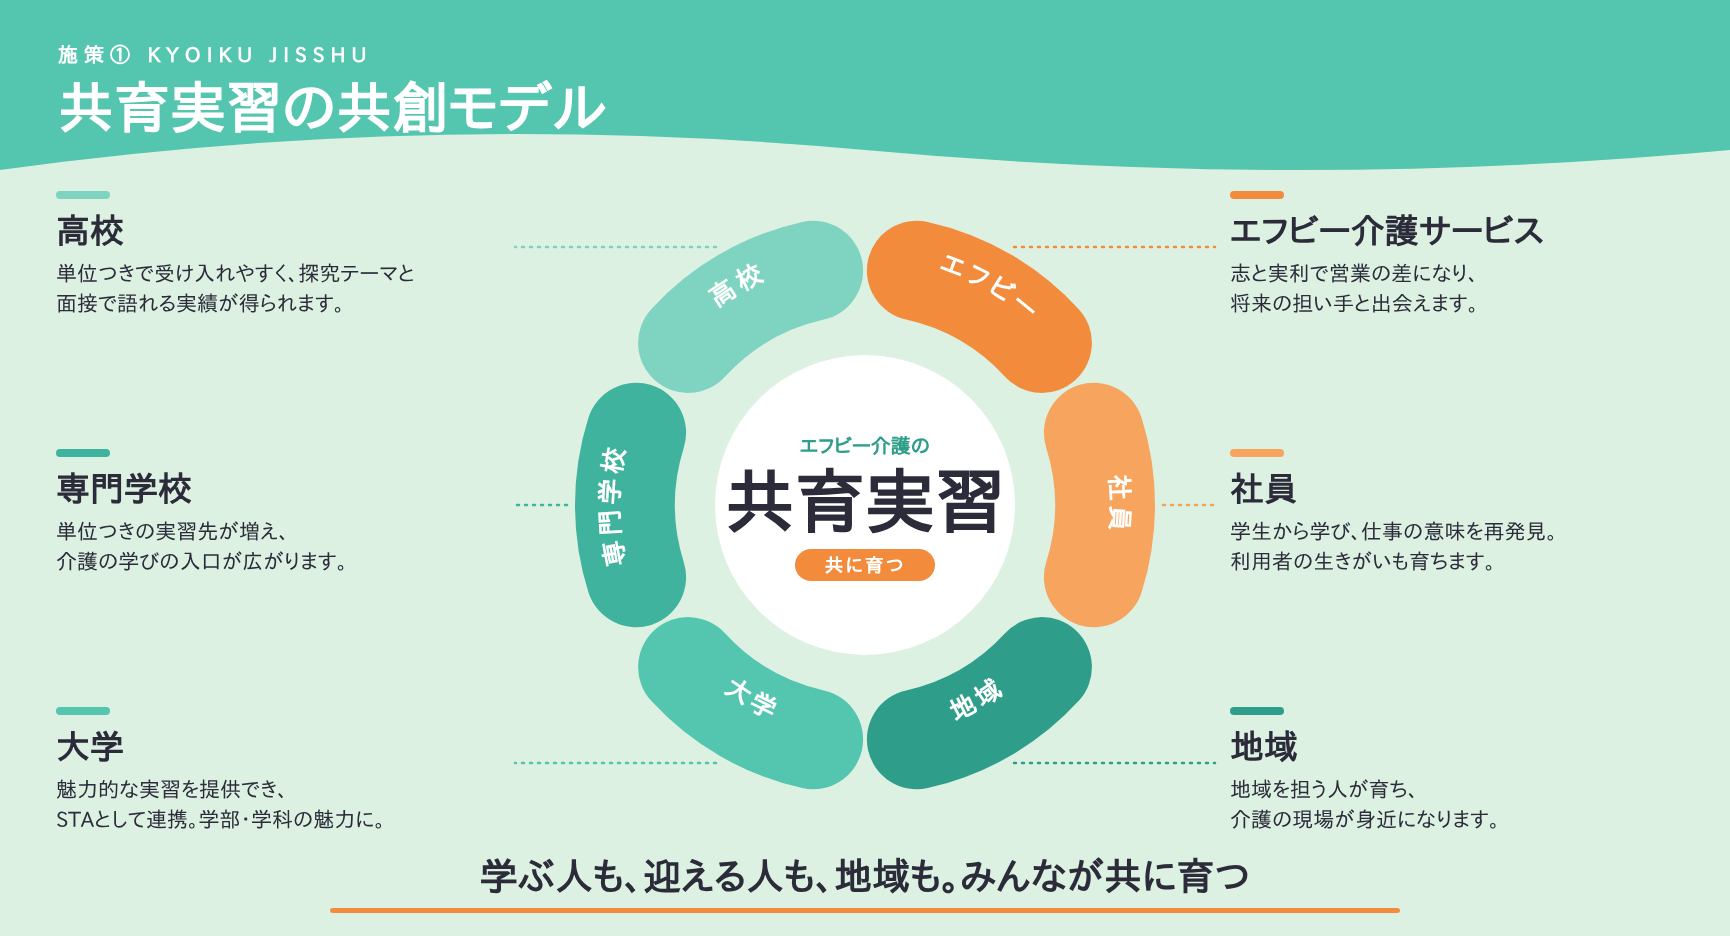
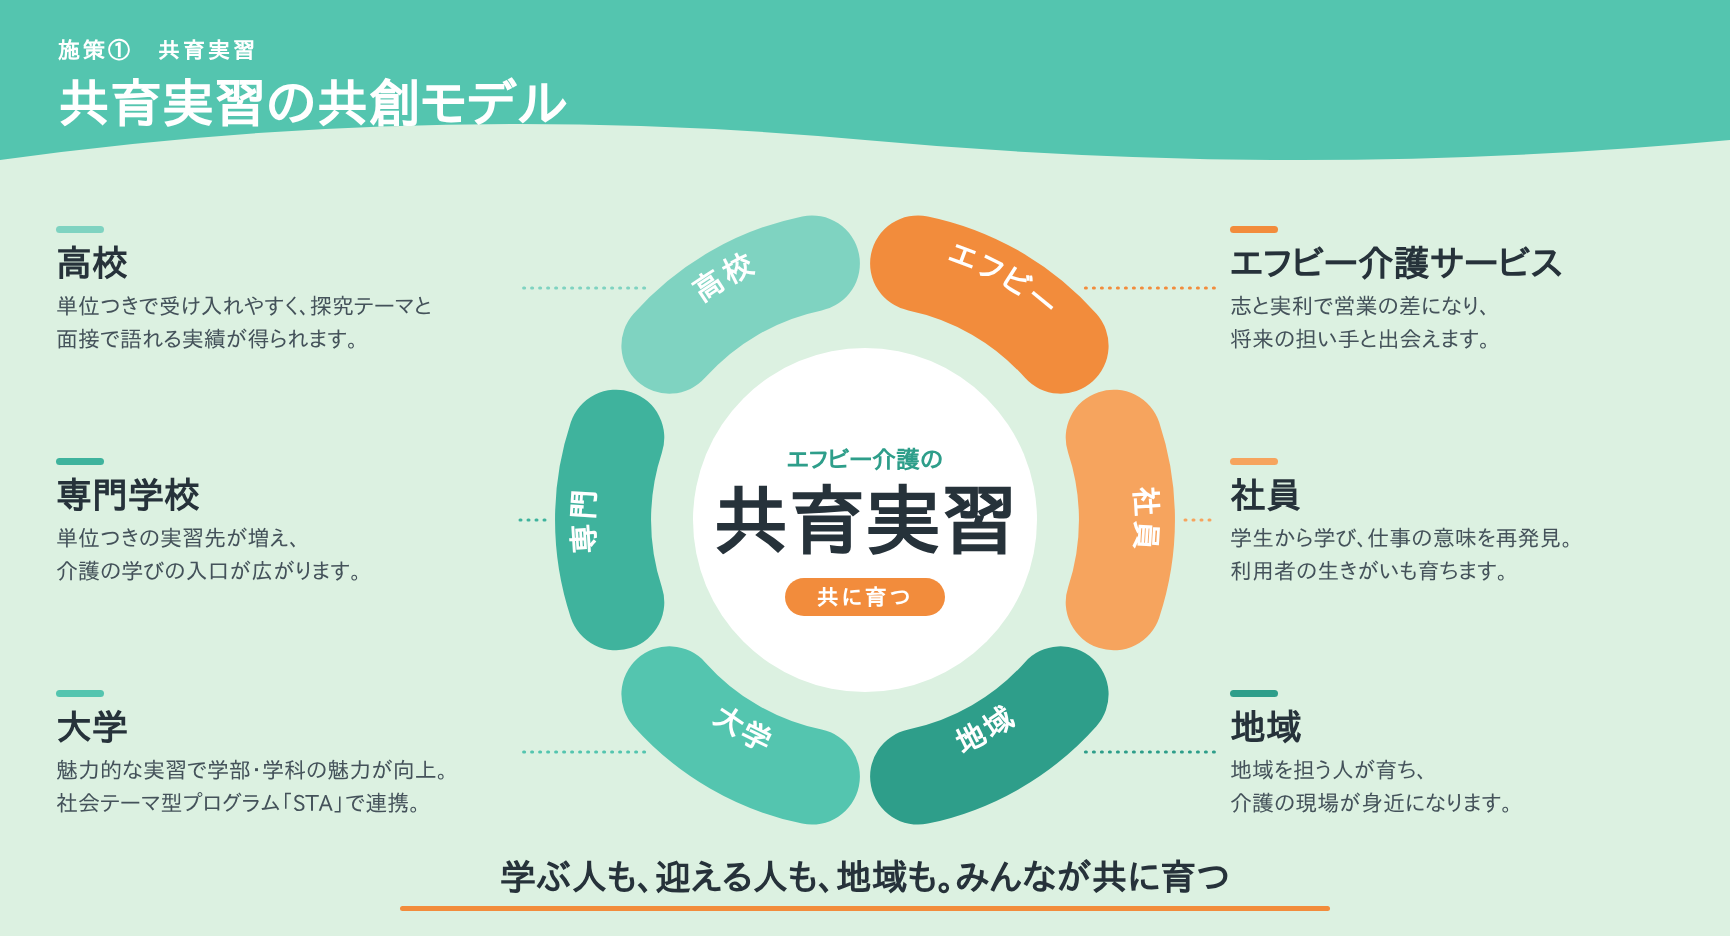
Refine co-creation model: Japanese-only labels, rebalanced sizes
Claude-Session: https://claude.ai/code/session_01MxdMxhi7qZAPC9aBAhtpWC

diff --git a/kyoiku-jisshu/co-creation-model.html b/kyoiku-jisshu/co-creation-model.html
@@ -1,61 +1,61 @@
-<!doctype html><meta charset="utf-8"><title>共育実習 共創モデル</title><body style="margin:0;overflow:hidden"><svg xmlns="http://www.w3.org/2000/svg" width="1730" height="936" viewBox="0 0 1730 936" font-family="Hiragino Sans,Noto Sans JP,IPAPGothic,sans-serif">
+<!doctype html><meta charset="utf-8"><title>共育実習 共創モデル</title><body style="margin:0;overflow:hidden"><svg xmlns="http://www.w3.org/2000/svg" width="1730" height="936" viewBox="0 0 1730 936" font-family="Hiragino Sans,Noto Sans JP,Noto Sans CJK JP,IPAPGothic,sans-serif">
 <rect width="1730" height="936" fill="#dcf1e1"/>
-<path d="M0,0H1730V150Q1300,190 865,150T0,170Z" fill="#54c5af"/>
-<text x="58" y="62" font-size="20" font-weight="800" letter-spacing="6" fill="#fff">施策① KYOIKU JISSHU</text>
-<text x="58" y="128" font-size="56" font-weight="800" fill="#fff">共育実習の共創モデル</text>
-<circle cx="865" cy="505" r="150" fill="#fff"/>
-<text x="865" y="453" text-anchor="middle" font-size="20" font-weight="700" fill="#2e9e8a">エフビー介護の</text>
-<text x="865" y="527" text-anchor="middle" font-size="70" font-weight="800" fill="#2b2b3a">共育実習</text>
-<rect x="795" y="549" width="140" height="32" rx="16" fill="#f28c3c"/>
-<text x="865" y="572" text-anchor="middle" font-size="19" font-weight="800" letter-spacing="2" fill="#fff">共に育つ</text>
-<path d="M916.9,270.7 A240,240 0 0 1 1041.9,342.9" stroke="#f28c3c" stroke-width="100" stroke-linecap="round" fill="none"/>
-<path id="t0" d="M918.2,264.8 A246,246 0 0 1 1046.4,338.8" fill="none"/>
-<text font-size="26" font-weight="800" letter-spacing="4" fill="#fff"><textPath href="#t0" startOffset="50%" text-anchor="middle">エフビー</textPath></text>
-<path d="M1014.0,246.9 L1215,246.9" stroke="#f28c3c" stroke-width="2.5" stroke-dasharray="2 6" stroke-linecap="round"/>
-<text x="1230" y="243" font-size="34" font-weight="800" fill="#2b2b3a">エフビー介護サービス</text>
-<text x="1230" y="281" font-size="21" fill="#2b2b3a">志と実利で営業の差になり、</text>
-<text x="1230" y="311" font-size="21" fill="#2b2b3a">将来の担い手と出会えます。</text>
-<rect x="1230" y="191" width="54" height="8" rx="4" fill="#f28c3c"/>
-<path d="M1093.9,432.8 A240,240 0 0 1 1093.9,577.2" stroke="#f6a45e" stroke-width="100" stroke-linecap="round" fill="none"/>
-<path id="t1" d="M1099.6,431.0 A246,246 0 0 1 1099.6,579.0" fill="none"/>
-<text font-size="26" font-weight="800" letter-spacing="4" fill="#fff"><textPath href="#t1" startOffset="50%" text-anchor="middle">社員</textPath></text>
-<path d="M1163.0,505.0 L1215,505.0" stroke="#f6a45e" stroke-width="2.5" stroke-dasharray="2 6" stroke-linecap="round"/>
-<text x="1230" y="501" font-size="34" font-weight="800" fill="#2b2b3a">社員</text>
-<text x="1230" y="539" font-size="21" fill="#2b2b3a">学生から学び、仕事の意味を再発見。</text>
-<text x="1230" y="569" font-size="21" fill="#2b2b3a">利用者の生きがいも育ちます。</text>
-<rect x="1230" y="449" width="54" height="8" rx="4" fill="#f6a45e"/>
-<path d="M1041.9,667.1 A240,240 0 0 1 916.9,739.3" stroke="#2e9e8a" stroke-width="100" stroke-linecap="round" fill="none"/>
-<path id="t2" d="M915.6,733.5 A234,234 0 0 0 1037.5,663.1" fill="none"/>
-<text font-size="26" font-weight="800" letter-spacing="4" fill="#fff"><textPath href="#t2" startOffset="50%" text-anchor="middle">地域</textPath></text>
-<path d="M1014.0,763.1 L1215,763.1" stroke="#2e9e8a" stroke-width="2.5" stroke-dasharray="2 6" stroke-linecap="round"/>
-<text x="1230" y="759" font-size="34" font-weight="800" fill="#2b2b3a">地域</text>
-<text x="1230" y="797" font-size="21" fill="#2b2b3a">地域を担う人が育ち、</text>
-<text x="1230" y="827" font-size="21" fill="#2b2b3a">介護の現場が身近になります。</text>
-<rect x="1230" y="707" width="54" height="8" rx="4" fill="#2e9e8a"/>
-<path d="M813.1,739.3 A240,240 0 0 1 688.1,667.1" stroke="#54c5af" stroke-width="100" stroke-linecap="round" fill="none"/>
-<path id="t3" d="M692.5,663.1 A234,234 0 0 0 814.4,733.5" fill="none"/>
-<text font-size="26" font-weight="800" letter-spacing="4" fill="#fff"><textPath href="#t3" startOffset="50%" text-anchor="middle">大学</textPath></text>
-<path d="M716.0,763.1 L515,763.1" stroke="#54c5af" stroke-width="2.5" stroke-dasharray="2 6" stroke-linecap="round"/>
-<text x="56" y="759" font-size="34" font-weight="800" fill="#2b2b3a">大学</text>
-<text x="56" y="797" font-size="21" fill="#2b2b3a">魅力的な実習を提供でき、</text>
-<text x="56" y="827" font-size="21" fill="#2b2b3a">STAとして連携。学部・学科の魅力に。</text>
-<rect x="56" y="707" width="54" height="8" rx="4" fill="#54c5af"/>
-<path d="M636.1,577.2 A240,240 0 0 1 636.1,432.8" stroke="#3fb39d" stroke-width="100" stroke-linecap="round" fill="none"/>
-<path id="t4" d="M630.4,579.0 A246,246 0 0 1 630.4,431.0" fill="none"/>
-<text font-size="26" font-weight="800" letter-spacing="4" fill="#fff"><textPath href="#t4" startOffset="50%" text-anchor="middle">専門学校</textPath></text>
-<path d="M567.0,505.0 L515,505.0" stroke="#3fb39d" stroke-width="2.5" stroke-dasharray="2 6" stroke-linecap="round"/>
-<text x="56" y="501" font-size="34" font-weight="800" fill="#2b2b3a">専門学校</text>
-<text x="56" y="539" font-size="21" fill="#2b2b3a">単位つきの実習先が増え、</text>
-<text x="56" y="569" font-size="21" fill="#2b2b3a">介護の学びの入口が広がります。</text>
-<rect x="56" y="449" width="54" height="8" rx="4" fill="#3fb39d"/>
-<path d="M688.1,342.9 A240,240 0 0 1 813.1,270.7" stroke="#7fd3c1" stroke-width="100" stroke-linecap="round" fill="none"/>
-<path id="t5" d="M683.6,338.8 A246,246 0 0 1 811.8,264.8" fill="none"/>
-<text font-size="26" font-weight="800" letter-spacing="4" fill="#fff"><textPath href="#t5" startOffset="50%" text-anchor="middle">高校</textPath></text>
-<path d="M716.0,246.9 L515,246.9" stroke="#7fd3c1" stroke-width="2.5" stroke-dasharray="2 6" stroke-linecap="round"/>
-<text x="56" y="243" font-size="34" font-weight="800" fill="#2b2b3a">高校</text>
-<text x="56" y="281" font-size="21" fill="#2b2b3a">単位つきで受け入れやすく、探究テーマと</text>
-<text x="56" y="311" font-size="21" fill="#2b2b3a">面接で語れる実績が得られます。</text>
-<rect x="56" y="191" width="54" height="8" rx="4" fill="#7fd3c1"/>
-<text x="865" y="890" text-anchor="middle" font-size="38" font-weight="800" fill="#2b2b3a">学ぶ人も、迎える人も、地域も。みんなが共に育つ</text>
-<rect x="330" y="908" width="1070" height="5" rx="3" fill="#f28c3c"/>
+<path d="M0,0H1730V140Q1300,180 865,140T0,160Z" fill="#54c5af"/>
+<text x="58" y="58" font-size="22" font-weight="700" letter-spacing="3" fill="#fff">施策①　共育実習</text>
+<text x="58" y="122" font-size="52" font-weight="800" fill="#fff">共育実習の共創モデル</text>
+<circle cx="865" cy="520" r="172" fill="#fff"/>
+<text x="865" y="468" text-anchor="middle" font-size="24" font-weight="700" fill="#2e9e8a">エフビー介護の</text>
+<text x="865" y="548" text-anchor="middle" font-size="76" font-weight="800" fill="#26323a">共育実習</text>
+<rect x="785" y="578" width="160" height="38" rx="19" fill="#f28c3c"/>
+<text x="865" y="605" text-anchor="middle" font-size="22" font-weight="800" letter-spacing="3" fill="#fff">共に育つ</text>
+<path d="M918.1,263.4 A262,262 0 0 1 1060.6,345.7" stroke="#f28c3c" stroke-width="96" stroke-linecap="round" fill="none"/>
+<path id="t0" d="M919.9,254.6 A271,271 0 0 1 1067.3,339.7" fill="none"/>
+<text font-size="30" font-weight="700" letter-spacing="3" fill="#fff"><textPath href="#t0" startOffset="50%" text-anchor="middle">エフビー</textPath></text>
+<line x1="1085.4" y1="288" x2="1216" y2="288" stroke="#f28c3c" stroke-width="3" stroke-dasharray="1 7" stroke-linecap="round"/>
+<rect x="1230" y="226" width="48" height="7" rx="3.5" fill="#f28c3c"/>
+<text x="1230" y="276" font-size="36" font-weight="800" fill="#26323a">エフビー介護サービス</text>
+<text x="1230" y="314" font-size="22" fill="#44525a">志と実利で営業の差になり、</text>
+<text x="1230" y="347" font-size="22" fill="#44525a">将来の担い手と出会えます。</text>
+<path d="M1113.7,437.7 A262,262 0 0 1 1113.7,602.3" stroke="#f6a45e" stroke-width="96" stroke-linecap="round" fill="none"/>
+<path id="t1" d="M1122.3,434.9 A271,271 0 0 1 1122.3,605.1" fill="none"/>
+<text font-size="30" font-weight="700" letter-spacing="3" fill="#fff"><textPath href="#t1" startOffset="50%" text-anchor="middle">社員</textPath></text>
+<line x1="1185.0" y1="520" x2="1216" y2="520" stroke="#f6a45e" stroke-width="3" stroke-dasharray="1 7" stroke-linecap="round"/>
+<rect x="1230" y="458" width="48" height="7" rx="3.5" fill="#f6a45e"/>
+<text x="1230" y="508" font-size="36" font-weight="800" fill="#26323a">社員</text>
+<text x="1230" y="546" font-size="22" fill="#44525a">学生から学び、仕事の意味を再発見。</text>
+<text x="1230" y="579" font-size="22" fill="#44525a">利用者の生きがいも育ちます。</text>
+<path d="M1060.6,694.3 A262,262 0 0 1 918.1,776.6" stroke="#2e9e8a" stroke-width="96" stroke-linecap="round" fill="none"/>
+<path id="t2" d="M916.3,767.7 A253,253 0 0 0 1053.9,688.3" fill="none"/>
+<text font-size="30" font-weight="700" letter-spacing="3" fill="#fff"><textPath href="#t2" startOffset="50%" text-anchor="middle">地域</textPath></text>
+<line x1="1085.4" y1="752" x2="1216" y2="752" stroke="#2e9e8a" stroke-width="3" stroke-dasharray="1 7" stroke-linecap="round"/>
+<rect x="1230" y="690" width="48" height="7" rx="3.5" fill="#2e9e8a"/>
+<text x="1230" y="740" font-size="36" font-weight="800" fill="#26323a">地域</text>
+<text x="1230" y="778" font-size="22" fill="#44525a">地域を担う人が育ち、</text>
+<text x="1230" y="811" font-size="22" fill="#44525a">介護の現場が身近になります。</text>
+<path d="M811.9,776.6 A262,262 0 0 1 669.4,694.3" stroke="#54c5af" stroke-width="96" stroke-linecap="round" fill="none"/>
+<path id="t3" d="M676.1,688.3 A253,253 0 0 0 813.7,767.7" fill="none"/>
+<text font-size="30" font-weight="700" letter-spacing="3" fill="#fff"><textPath href="#t3" startOffset="50%" text-anchor="middle">大学</textPath></text>
+<line x1="644.6" y1="752" x2="520" y2="752" stroke="#54c5af" stroke-width="3" stroke-dasharray="1 7" stroke-linecap="round"/>
+<rect x="56" y="690" width="48" height="7" rx="3.5" fill="#54c5af"/>
+<text x="56" y="740" font-size="36" font-weight="800" fill="#26323a">大学</text>
+<text x="56" y="778" font-size="22" fill="#44525a">魅力的な実習で学部・学科の魅力が向上。</text>
+<text x="56" y="811" font-size="22" fill="#44525a">社会テーマ型プログラム「STA」で連携。</text>
+<path d="M616.3,602.3 A262,262 0 0 1 616.3,437.7" stroke="#3fb39d" stroke-width="96" stroke-linecap="round" fill="none"/>
+<path id="t4" d="M607.7,605.1 A271,271 0 0 1 607.7,434.9" fill="none"/>
+<text font-size="30" font-weight="700" letter-spacing="3" fill="#fff"><textPath href="#t4" startOffset="50%" text-anchor="middle">専門</textPath></text>
+<line x1="545.0" y1="520" x2="520" y2="520" stroke="#3fb39d" stroke-width="3" stroke-dasharray="1 7" stroke-linecap="round"/>
+<rect x="56" y="458" width="48" height="7" rx="3.5" fill="#3fb39d"/>
+<text x="56" y="508" font-size="36" font-weight="800" fill="#26323a">専門学校</text>
+<text x="56" y="546" font-size="22" fill="#44525a">単位つきの実習先が増え、</text>
+<text x="56" y="579" font-size="22" fill="#44525a">介護の学びの入口が広がります。</text>
+<path d="M669.4,345.7 A262,262 0 0 1 811.9,263.4" stroke="#7fd3c1" stroke-width="96" stroke-linecap="round" fill="none"/>
+<path id="t5" d="M662.7,339.7 A271,271 0 0 1 810.1,254.6" fill="none"/>
+<text font-size="30" font-weight="700" letter-spacing="3" fill="#fff"><textPath href="#t5" startOffset="50%" text-anchor="middle">高校</textPath></text>
+<line x1="644.6" y1="288" x2="520" y2="288" stroke="#7fd3c1" stroke-width="3" stroke-dasharray="1 7" stroke-linecap="round"/>
+<rect x="56" y="226" width="48" height="7" rx="3.5" fill="#7fd3c1"/>
+<text x="56" y="276" font-size="36" font-weight="800" fill="#26323a">高校</text>
+<text x="56" y="314" font-size="22" fill="#44525a">単位つきで受け入れやすく、探究テーマと</text>
+<text x="56" y="347" font-size="22" fill="#44525a">面接で語れる実績が得られます。</text>
+<text x="865" y="890" text-anchor="middle" font-size="36" font-weight="800" fill="#26323a">学ぶ人も、迎える人も、地域も。みんなが共に育つ</text>
+<rect x="400" y="906" width="930" height="5" rx="2.5" fill="#f28c3c"/>
 </svg>

diff --git a/kyoiku-jisshu/gen.py b/kyoiku-jisshu/gen.py
@@ -1,53 +1,52 @@
 import math
-cx,cy,r=865,505,240
+cx,cy,r,sw=865,520,262,96
+INK='#26323a'
 def pt(a,rr=r):
     t=math.radians(a); return cx+rr*math.sin(t), cy-rr*math.cos(t)
-segs=[ # start,end(clockwise from top), color, name, en, desc lines, side
+segs=[ # start,end(clockwise from top), color, name, ring label, desc lines
  (0,60,'#f28c3c','エフビー介護サービス','エフビー',['志と実利で営業の差になり、','将来の担い手と出会えます。']),
  (60,120,'#f6a45e','社員','社員',['学生から学び、仕事の意味を再発見。','利用者の生きがいも育ちます。']),
  (120,180,'#2e9e8a','地域','地域',['地域を担う人が育ち、','介護の現場が身近になります。']),
- (180,240,'#54c5af','大学','大学',['魅力的な実習を提供でき、','STAとして連携。学部・学科の魅力に。']),
- (240,300,'#3fb39d','専門学校','専門学校',['単位つきの実習先が増え、','介護の学びの入口が広がります。']),
+ (180,240,'#54c5af','大学','大学',['魅力的な実習で学部・学科の魅力が向上。','社会テーマ型プログラム「STA」で連携。']),
+ (240,300,'#3fb39d','専門学校','専門',['単位つきの実習先が増え、','介護の学びの入口が広がります。']),
  (300,360,'#7fd3c1','高校','高校',['単位つきで受け入れやすく、探究テーマと','面接で語れる実績が得られます。']),
 ]
-cap=11.5; out=[]
-for i,(a0,a1,col,name,en,desc) in enumerate(segs):
-    s,e=a0+cap+1,a1-cap-1
+cap=(sw/2)/r*180/math.pi; out=[]
+for i,(a0,a1,col,name,ring,desc) in enumerate(segs):
+    s,e=a0+cap+1.2,a1-cap-1.2
     (x0,y0),(x1,y1)=pt(s),pt(e)
-    out.append(f'<path d="M{x0:.1f},{y0:.1f} A{r},{r} 0 0 1 {x1:.1f},{y1:.1f}" stroke="{col}" stroke-width="100" stroke-linecap="round" fill="none"/>')
+    out.append(f'<path d="M{x0:.1f},{y0:.1f} A{r},{r} 0 0 1 {x1:.1f},{y1:.1f}" stroke="{col}" stroke-width="{sw}" stroke-linecap="round" fill="none"/>')
     mid=(a0+a1)/2
-    # text path
-    if 90<mid<270:
-        (tx0,ty0),(tx1,ty1)=pt(e,r-6),pt(s,r-6); sw=0; rr=r-6
-    else:
-        (tx0,ty0),(tx1,ty1)=pt(s,r+6),pt(e,r+6); sw=1; rr=r+6
-    out.append(f'<path id="t{i}" d="M{tx0:.1f},{ty0:.1f} A{rr},{rr} 0 0 {sw} {tx1:.1f},{ty1:.1f}" fill="none"/>')
-    out.append(f'<text font-size="26" font-weight="800" letter-spacing="4" fill="#fff"><textPath href="#t{i}" startOffset="50%" text-anchor="middle">{en}</textPath></text>')
-    # label
-    ex,ey=pt(mid,r+58); left= mid>180
-    lx=1215 if not left else 515
-    ly=ey
-    ty=ly-8
-    anchor_x = lx
-    tx= 1230 if not left else 56
-    out.append(f'<path d="M{ex:.1f},{ey:.1f} L{lx},{ey:.1f}" stroke="{col}" stroke-width="2.5" stroke-dasharray="2 6" stroke-linecap="round"/>')
-    out.append(f'<text x="{tx}" y="{ly-4:.0f}" font-size="34" font-weight="800" fill="#2b2b3a">{name}</text>')
+    if 90<mid<270: (p0,p1),rr,flag=(pt(e,r-9),pt(s,r-9)),r-9,0
+    else: (p0,p1),rr,flag=(pt(s,r+9),pt(e,r+9)),r+9,1
+    out.append(f'<path id="t{i}" d="M{p0[0]:.1f},{p0[1]:.1f} A{rr},{rr} 0 0 {flag} {p1[0]:.1f},{p1[1]:.1f}" fill="none"/>')
+    out.append(f'<text font-size="30" font-weight="700" letter-spacing="3" fill="#fff"><textPath href="#t{i}" startOffset="50%" text-anchor="middle">{ring}</textPath></text>')
+    left=mid>180
+    off=[-232,0,232][min(int(mid//60),5)%3] if not left else [232,0,-232][int((mid-180)//60)]
+    ly=cy+off
+    dx=math.sqrt(max((r+sw/2+10)**2-off**2,0))
+    ex=cx-dx if left else cx+dx
+    tx=56 if left else 1230
+    lx=ex-0 ; endx=(tx+ (462 if left else 0)) if left else tx-14
+    if left: endx=520
+    out.append(f'<line x1="{ex:.1f}" y1="{ly}" x2="{endx}" y2="{ly}" stroke="{col}" stroke-width="3" stroke-dasharray="1 7" stroke-linecap="round"/>')
+    out.append(f'<rect x="{tx}" y="{ly-62}" width="48" height="7" rx="3.5" fill="{col}"/>')
+    out.append(f'<text x="{tx}" y="{ly-12}" font-size="36" font-weight="800" fill="{INK}">{name}</text>')
     for j,l in enumerate(desc):
-        out.append(f'<text x="{tx}" y="{ly+34+j*30:.0f}" font-size="21" fill="#2b2b3a">{l}</text>')
-    out.append(f'<rect x="{tx}" y="{ly-56:.0f}" width="54" height="8" rx="4" fill="{col}"/>')
-svg=f'''<svg xmlns="http://www.w3.org/2000/svg" width="1730" height="936" viewBox="0 0 1730 936" font-family="Hiragino Sans,Noto Sans JP,IPAPGothic,sans-serif">
+        out.append(f'<text x="{tx}" y="{ly+26+j*33}" font-size="22" fill="#44525a">{l}</text>')
+svg=f'''<svg xmlns="http://www.w3.org/2000/svg" width="1730" height="936" viewBox="0 0 1730 936" font-family="Hiragino Sans,Noto Sans JP,Noto Sans CJK JP,IPAPGothic,sans-serif">
 <rect width="1730" height="936" fill="#dcf1e1"/>
-<path d="M0,0H1730V150Q1300,190 865,150T0,170Z" fill="#54c5af"/>
-<text x="58" y="62" font-size="20" font-weight="800" letter-spacing="6" fill="#fff">施策① KYOIKU JISSHU</text>
-<text x="58" y="128" font-size="56" font-weight="800" fill="#fff">共育実習の共創モデル</text>
-<circle cx="{cx}" cy="{cy}" r="150" fill="#fff"/>
-<text x="{cx}" y="{cy-52}" text-anchor="middle" font-size="20" font-weight="700" fill="#2e9e8a">エフビー介護の</text>
-<text x="{cx}" y="{cy+22}" text-anchor="middle" font-size="70" font-weight="800" fill="#2b2b3a">共育実習</text>
-<rect x="{cx-70}" y="{cy+44}" width="140" height="32" rx="16" fill="#f28c3c"/>
-<text x="{cx}" y="{cy+67}" text-anchor="middle" font-size="19" font-weight="800" letter-spacing="2" fill="#fff">共に育つ</text>
+<path d="M0,0H1730V140Q1300,180 865,140T0,160Z" fill="#54c5af"/>
+<text x="58" y="58" font-size="22" font-weight="700" letter-spacing="3" fill="#fff">施策①　共育実習</text>
+<text x="58" y="122" font-size="52" font-weight="800" fill="#fff">共育実習の共創モデル</text>
+<circle cx="{cx}" cy="{cy}" r="172" fill="#fff"/>
+<text x="{cx}" y="{cy-52}" text-anchor="middle" font-size="24" font-weight="700" fill="#2e9e8a">エフビー介護の</text>
+<text x="{cx}" y="{cy+28}" text-anchor="middle" font-size="76" font-weight="800" fill="{INK}">共育実習</text>
+<rect x="{cx-80}" y="{cy+58}" width="160" height="38" rx="19" fill="#f28c3c"/>
+<text x="{cx}" y="{cy+85}" text-anchor="middle" font-size="22" font-weight="800" letter-spacing="3" fill="#fff">共に育つ</text>
 {chr(10).join(out)}
-<text x="865" y="890" text-anchor="middle" font-size="38" font-weight="800" fill="#2b2b3a">学ぶ人も、迎える人も、地域も。みんなが共に育つ</text>
-<rect x="330" y="908" width="1070" height="5" rx="3" fill="#f28c3c"/>
+<text x="865" y="890" text-anchor="middle" font-size="36" font-weight="800" fill="{INK}">学ぶ人も、迎える人も、地域も。みんなが共に育つ</text>
+<rect x="400" y="906" width="930" height="5" rx="2.5" fill="#f28c3c"/>
 </svg>'''
 open('co-creation-model.svg','w').write(svg)
 open('co-creation-model.html','w').write('<!doctype html><meta charset="utf-8"><title>共育実習 共創モデル</title><body style="margin:0;overflow:hidden">'+svg)
